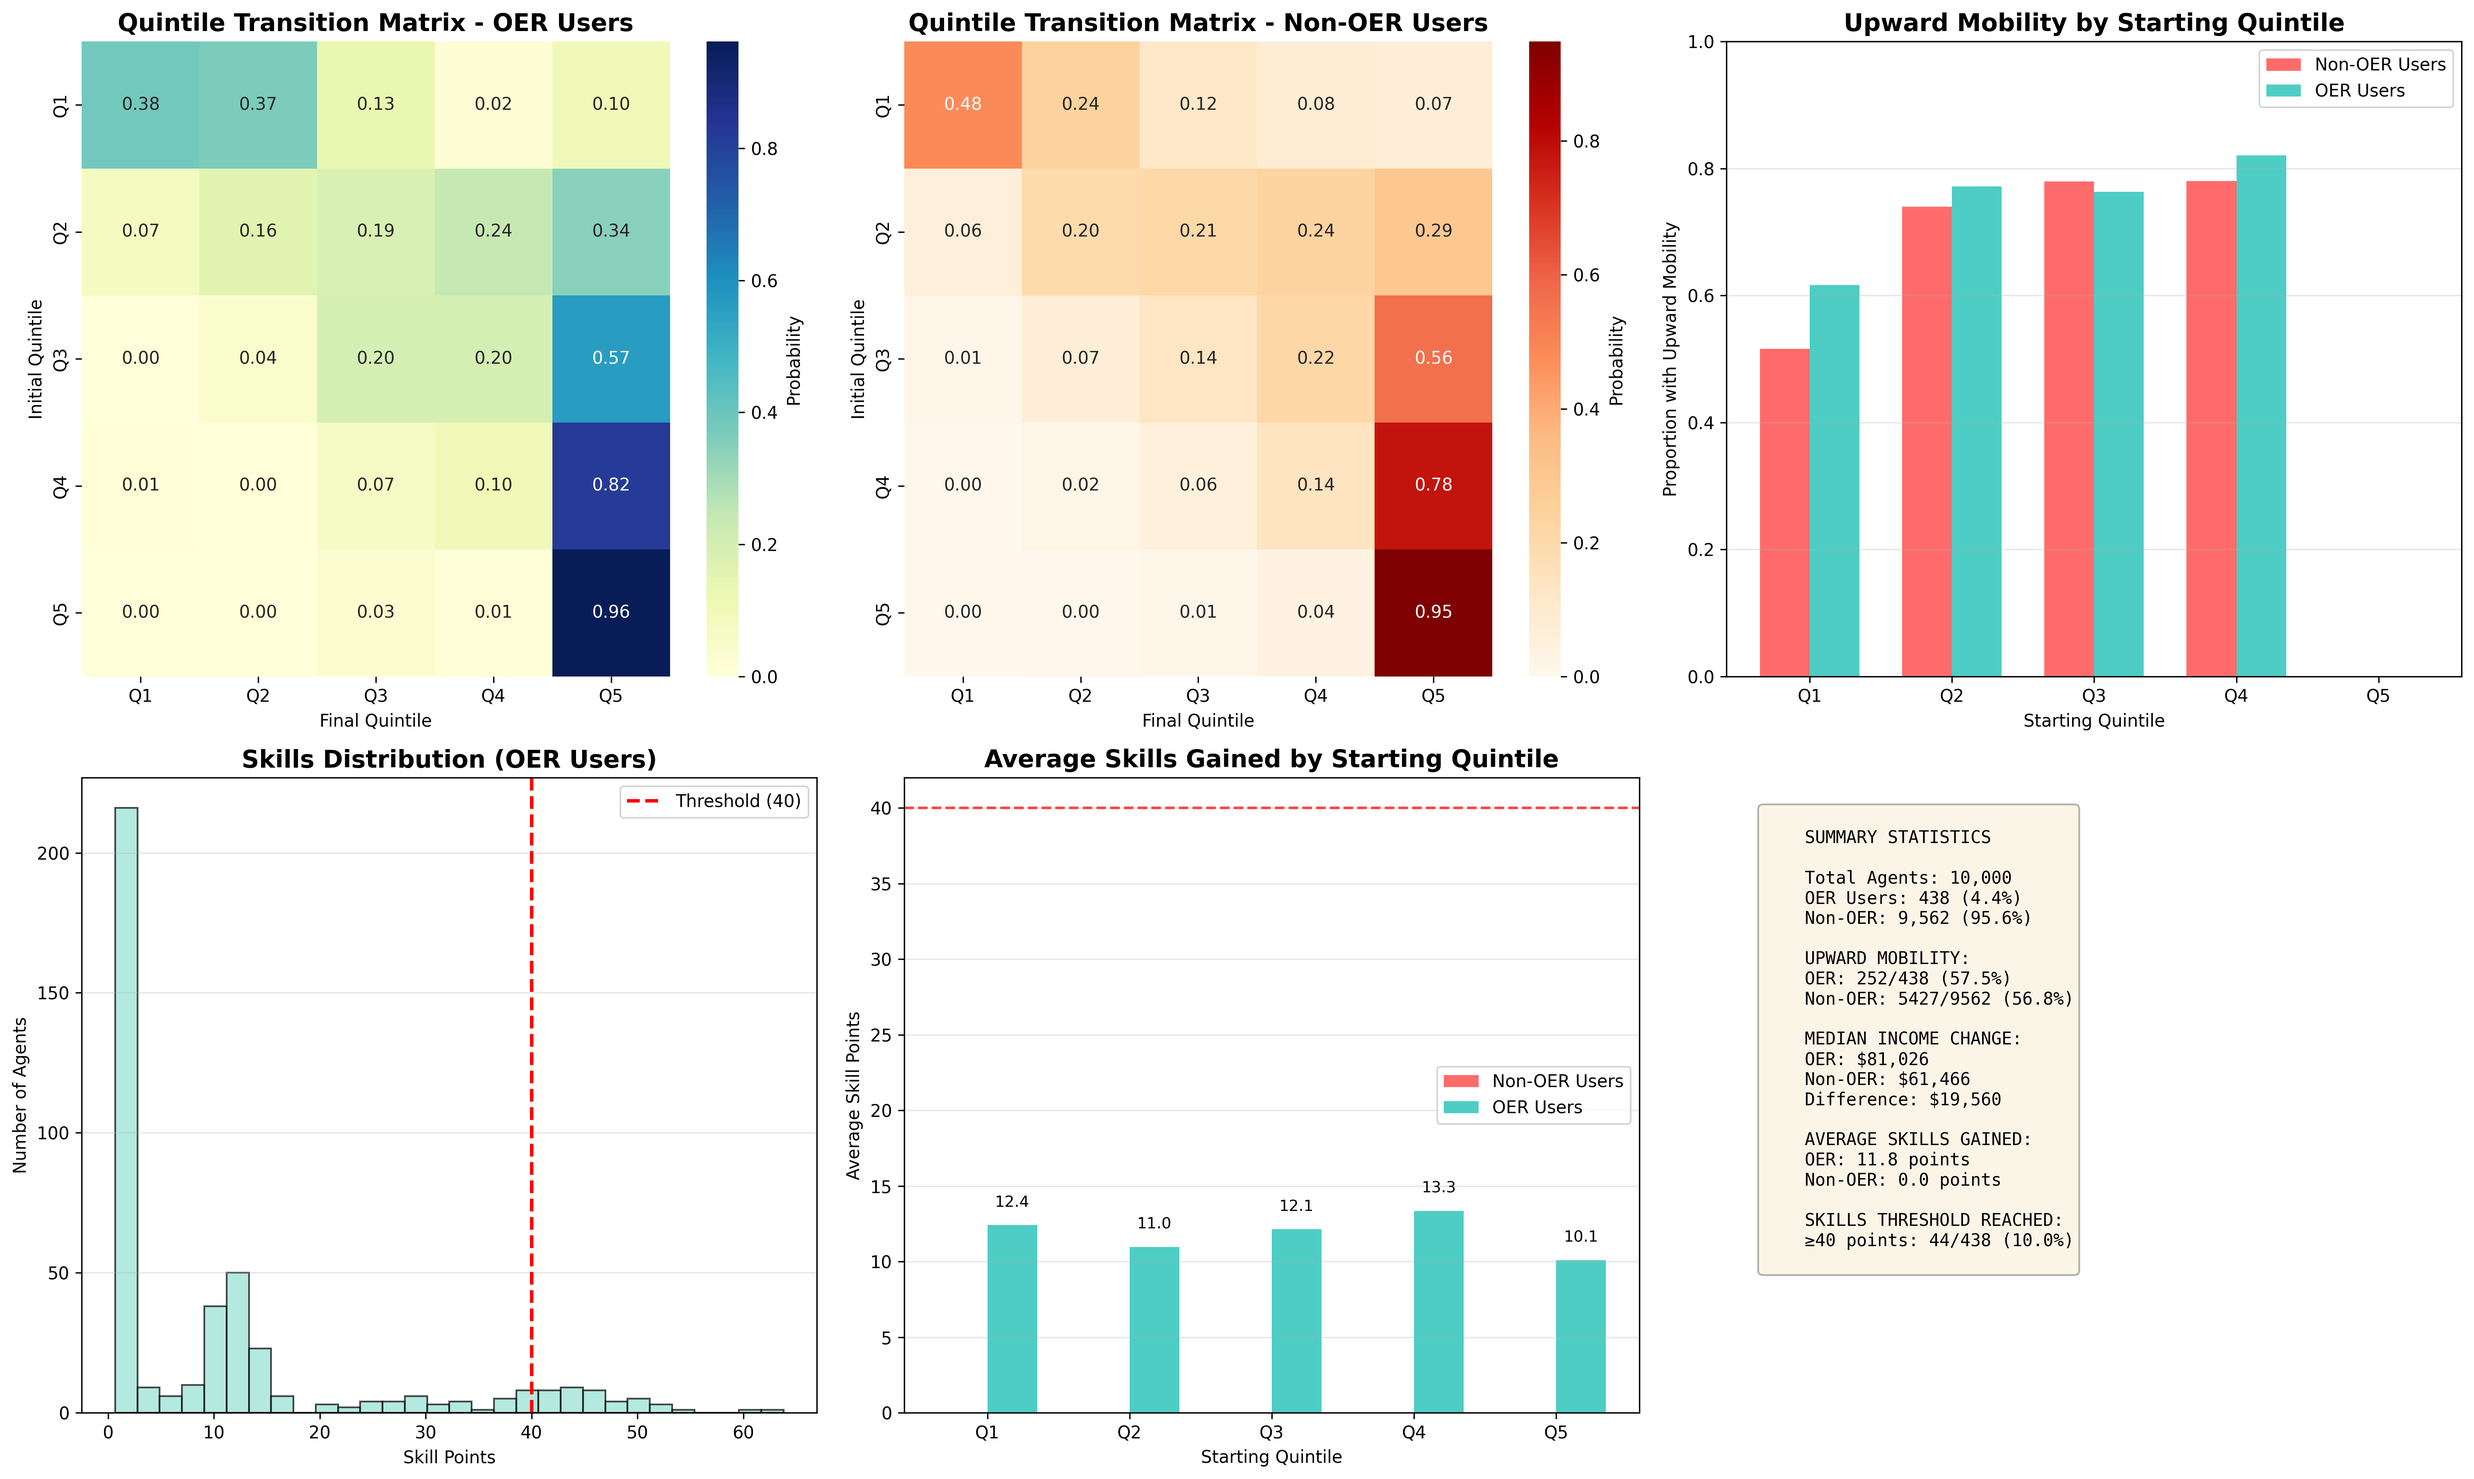
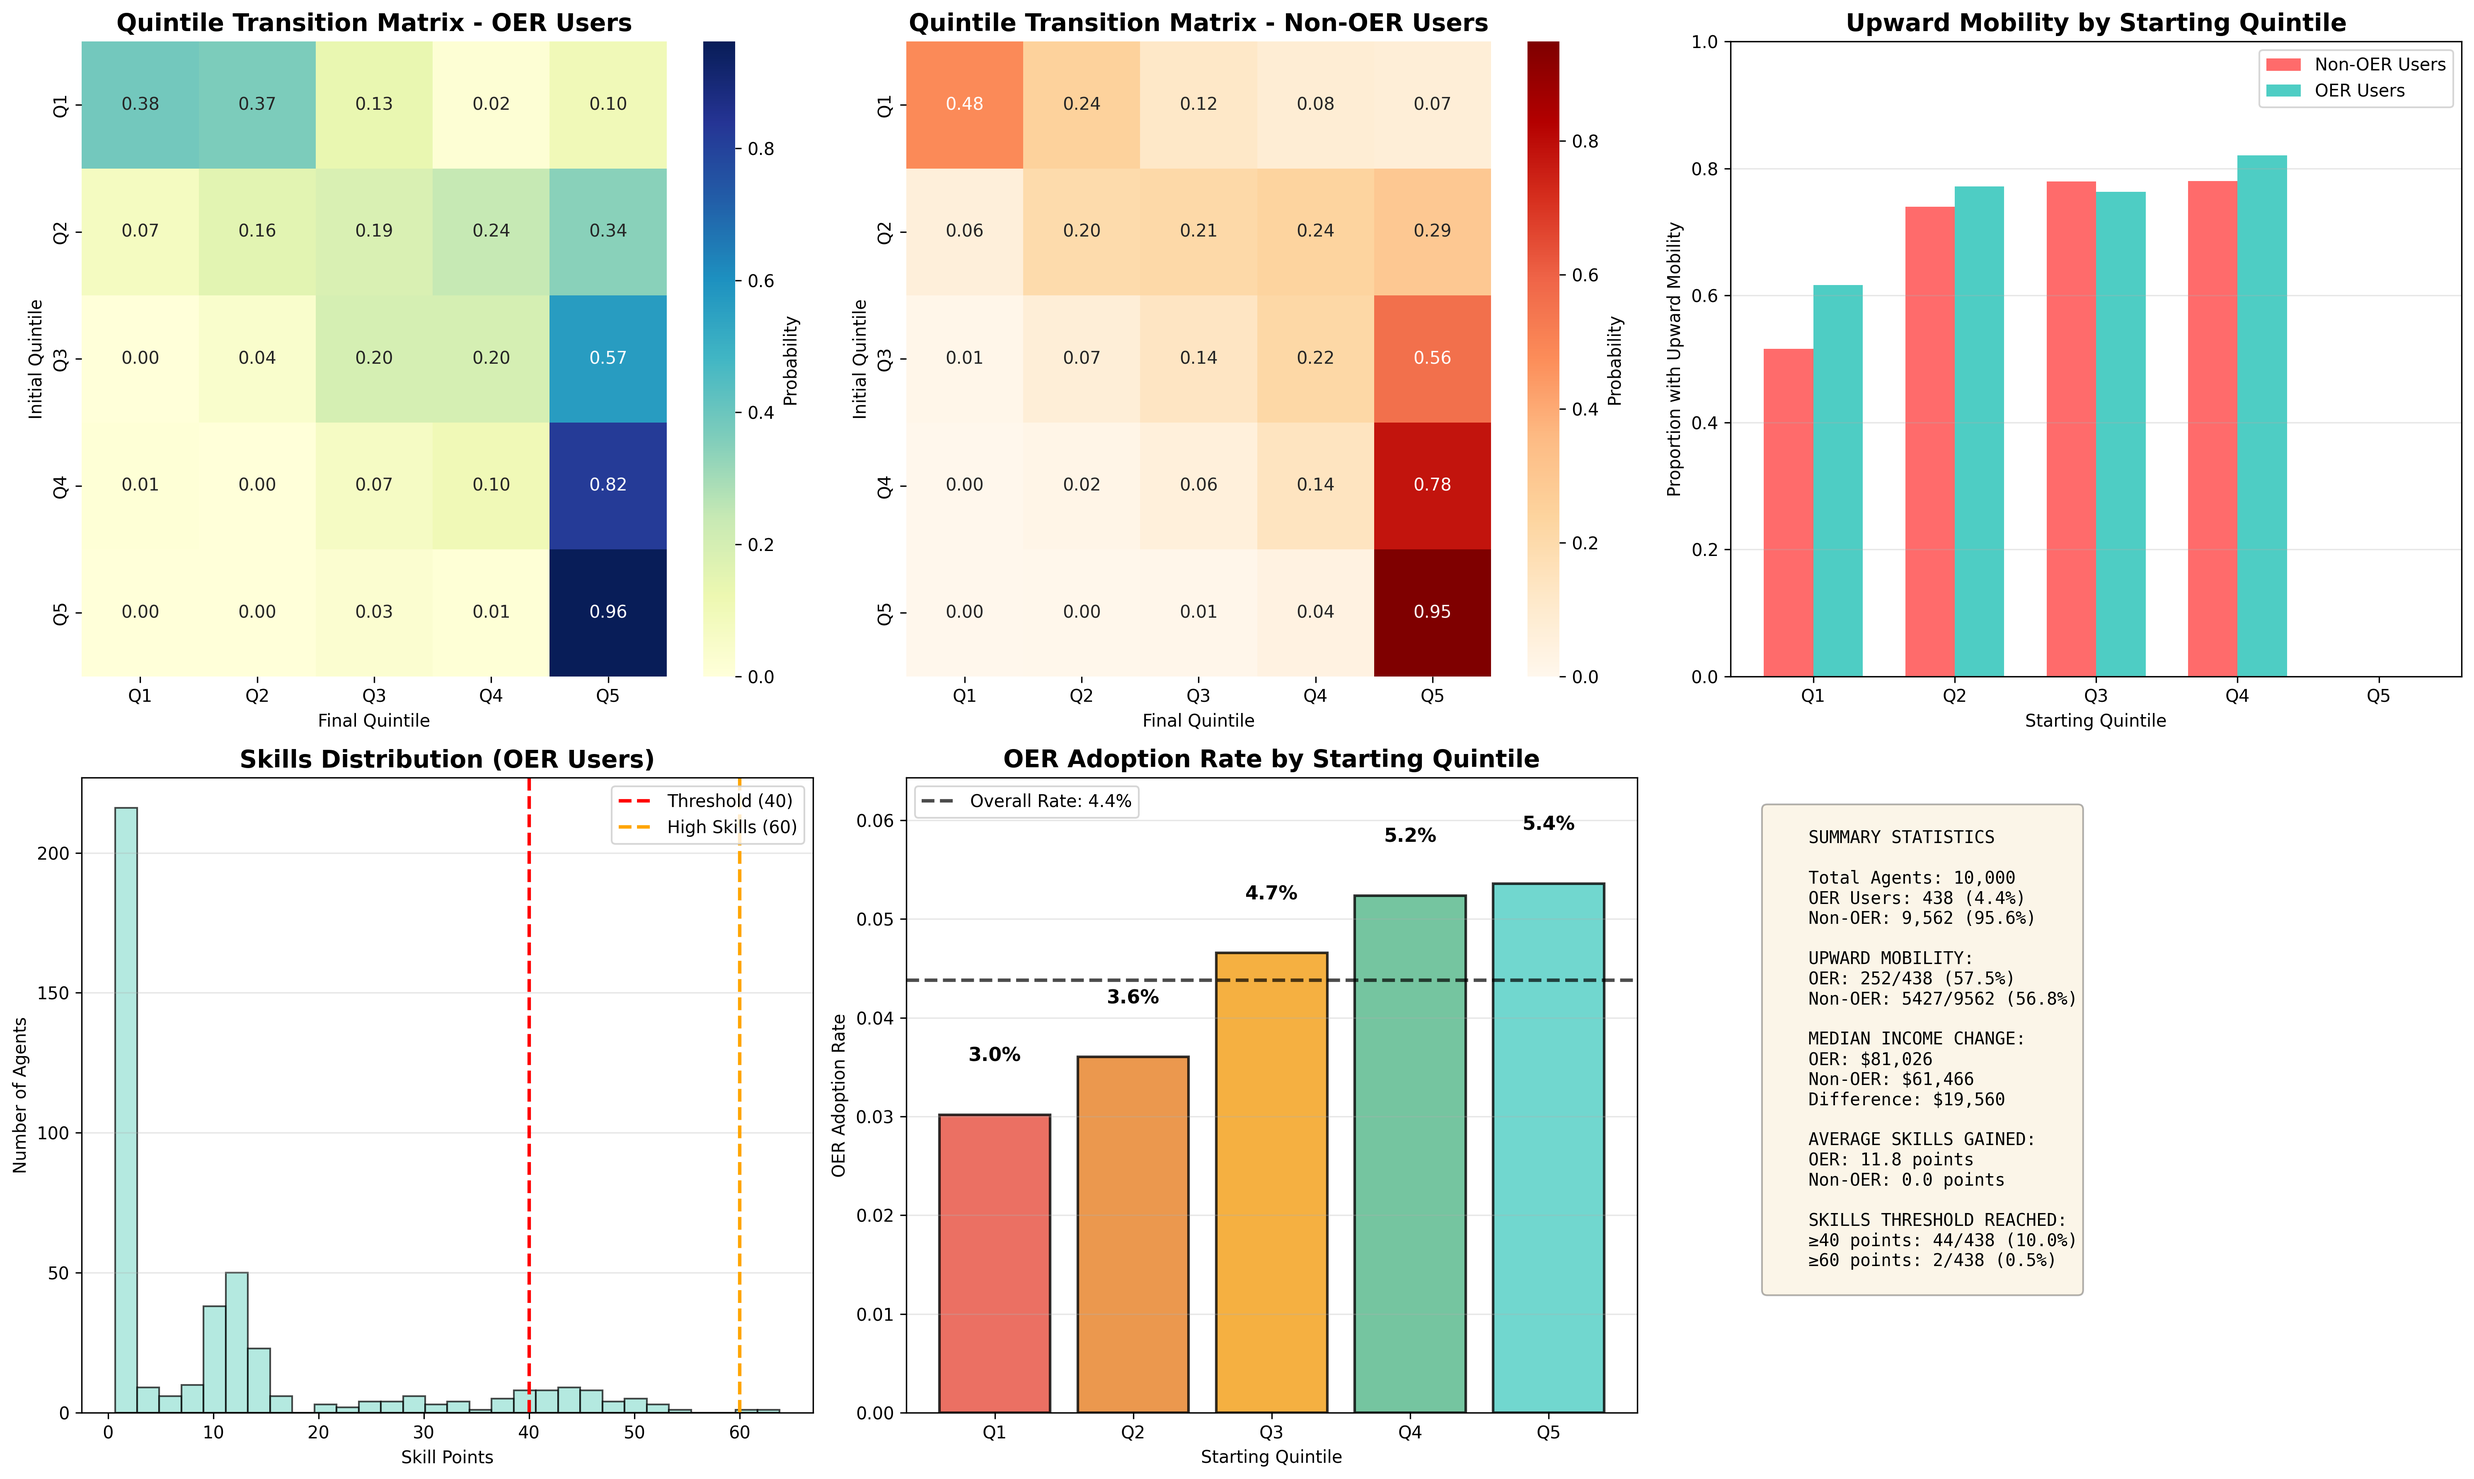
Add OER Usage <-> Init. Quintile Graph

diff --git a/main.py b/main.py
@@ -438,46 +438,39 @@ class OERSimulation:
         axes[1, 0].set_xlabel('Skill Points')
         axes[1, 0].set_ylabel('Number of Agents')
         axes[1, 0].axvline(40, color='red', linestyle='--', linewidth=2, label='Threshold (40)')
+        axes[1, 0].axvline(60, color='orange', linestyle='--', linewidth=2, label='High Skills (60)')
         axes[1, 0].legend()
         axes[1, 0].grid(True, alpha=0.3, axis='y')
         
-        oer_skills_by_quintile = []
-        non_oer_skills_by_quintile = []
+        oer_usage_by_quintile = []
         
         for q in range(5):
-            oer_q = oer_users[oer_users['quintile_initial'] == q]
-            non_oer_q = non_oer_users[non_oer_users['quintile_initial'] == q]
-            
-            if len(oer_q) > 0:
-                oer_skills_by_quintile.append(oer_q['skills_final'].mean())
+            q_agents = merged[merged['quintile_initial'] == q]
+            if len(q_agents) > 0:
+                oer_rate = (q_agents['oer_engaged_initial'] == True).mean()
+                oer_usage_by_quintile.append(oer_rate)
             else:
-                oer_skills_by_quintile.append(0)
-            
-            if len(non_oer_q) > 0:
-                non_oer_skills_by_quintile.append(non_oer_q['skills_final'].mean())
-            else:
-                non_oer_skills_by_quintile.append(0)
+                oer_usage_by_quintile.append(0)
         
         x = np.arange(5)
-        width = 0.35
+        bars = axes[1, 1].bar(x, oer_usage_by_quintile, color=['#E74C3C', '#E67E22', '#F39C12', '#52B788', '#4ECDC4'], 
+                            edgecolor='black', linewidth=1.5, alpha=0.8)
         
-        bars1 = axes[1, 1].bar(x - width/2, non_oer_skills_by_quintile, width, label='Non-OER Users', color='#FF6B6B')
-        bars2 = axes[1, 1].bar(x + width/2, oer_skills_by_quintile, width, label='OER Users', color='#4ECDC4')
-        
-        axes[1, 1].set_title('Average Skills Gained by Starting Quintile', fontsize=14, fontweight='bold')
+        axes[1, 1].set_title('OER Adoption Rate by Starting Quintile', fontsize=14, fontweight='bold')
         axes[1, 1].set_xlabel('Starting Quintile')
-        axes[1, 1].set_ylabel('Average Skill Points')
+        axes[1, 1].set_ylabel('OER Adoption Rate')
         axes[1, 1].set_xticks(x)
         axes[1, 1].set_xticklabels(['Q1', 'Q2', 'Q3', 'Q4', 'Q5'])
-        axes[1, 1].legend()
+        axes[1, 1].set_ylim([0, max(oer_usage_by_quintile) * 1.2])
         axes[1, 1].grid(True, alpha=0.3, axis='y')
-        axes[1, 1].axhline(40, color='red', linestyle='--', linewidth=1.5, alpha=0.7, label='Income Threshold (40)')
         
-        for i, (v1, v2) in enumerate(zip(non_oer_skills_by_quintile, oer_skills_by_quintile)):
-            if v1 > 0:
-                axes[1, 1].text(i - width/2, v1 + 1, f'{v1:.1f}', ha='center', va='bottom', fontsize=9)
-            if v2 > 0:
-                axes[1, 1].text(i + width/2, v2 + 1, f'{v2:.1f}', ha='center', va='bottom', fontsize=9)
+        for i, v in enumerate(oer_usage_by_quintile):
+            axes[1, 1].text(i, v + 0.005, f'{v*100:.1f}%', ha='center', va='bottom', fontsize=11, fontweight='bold')
+        
+        overall_rate = (merged['oer_engaged_initial'] == True).mean()
+        axes[1, 1].axhline(overall_rate, color='black', linestyle='--', linewidth=2, alpha=0.7, 
+                        label=f'Overall Rate: {overall_rate*100:.1f}%')
+        axes[1, 1].legend()
         
         summary_text = f"""
     SUMMARY STATISTICS
@@ -501,6 +494,7 @@ class OERSimulation:
 
     SKILLS THRESHOLD REACHED:
     ≥40 points: {(oer_users['skills_final'] >= 40).sum()}/{len(oer_users)} ({(oer_users['skills_final'] >= 40).mean()*100:.1f}%)
+    ≥60 points: {(oer_users['skills_final'] >= 60).sum()}/{len(oer_users)} ({(oer_users['skills_final'] >= 60).mean()*100:.1f}%)
         """
         
         axes[1, 2].text(0.05, 0.95, summary_text, transform=axes[1, 2].transAxes,
